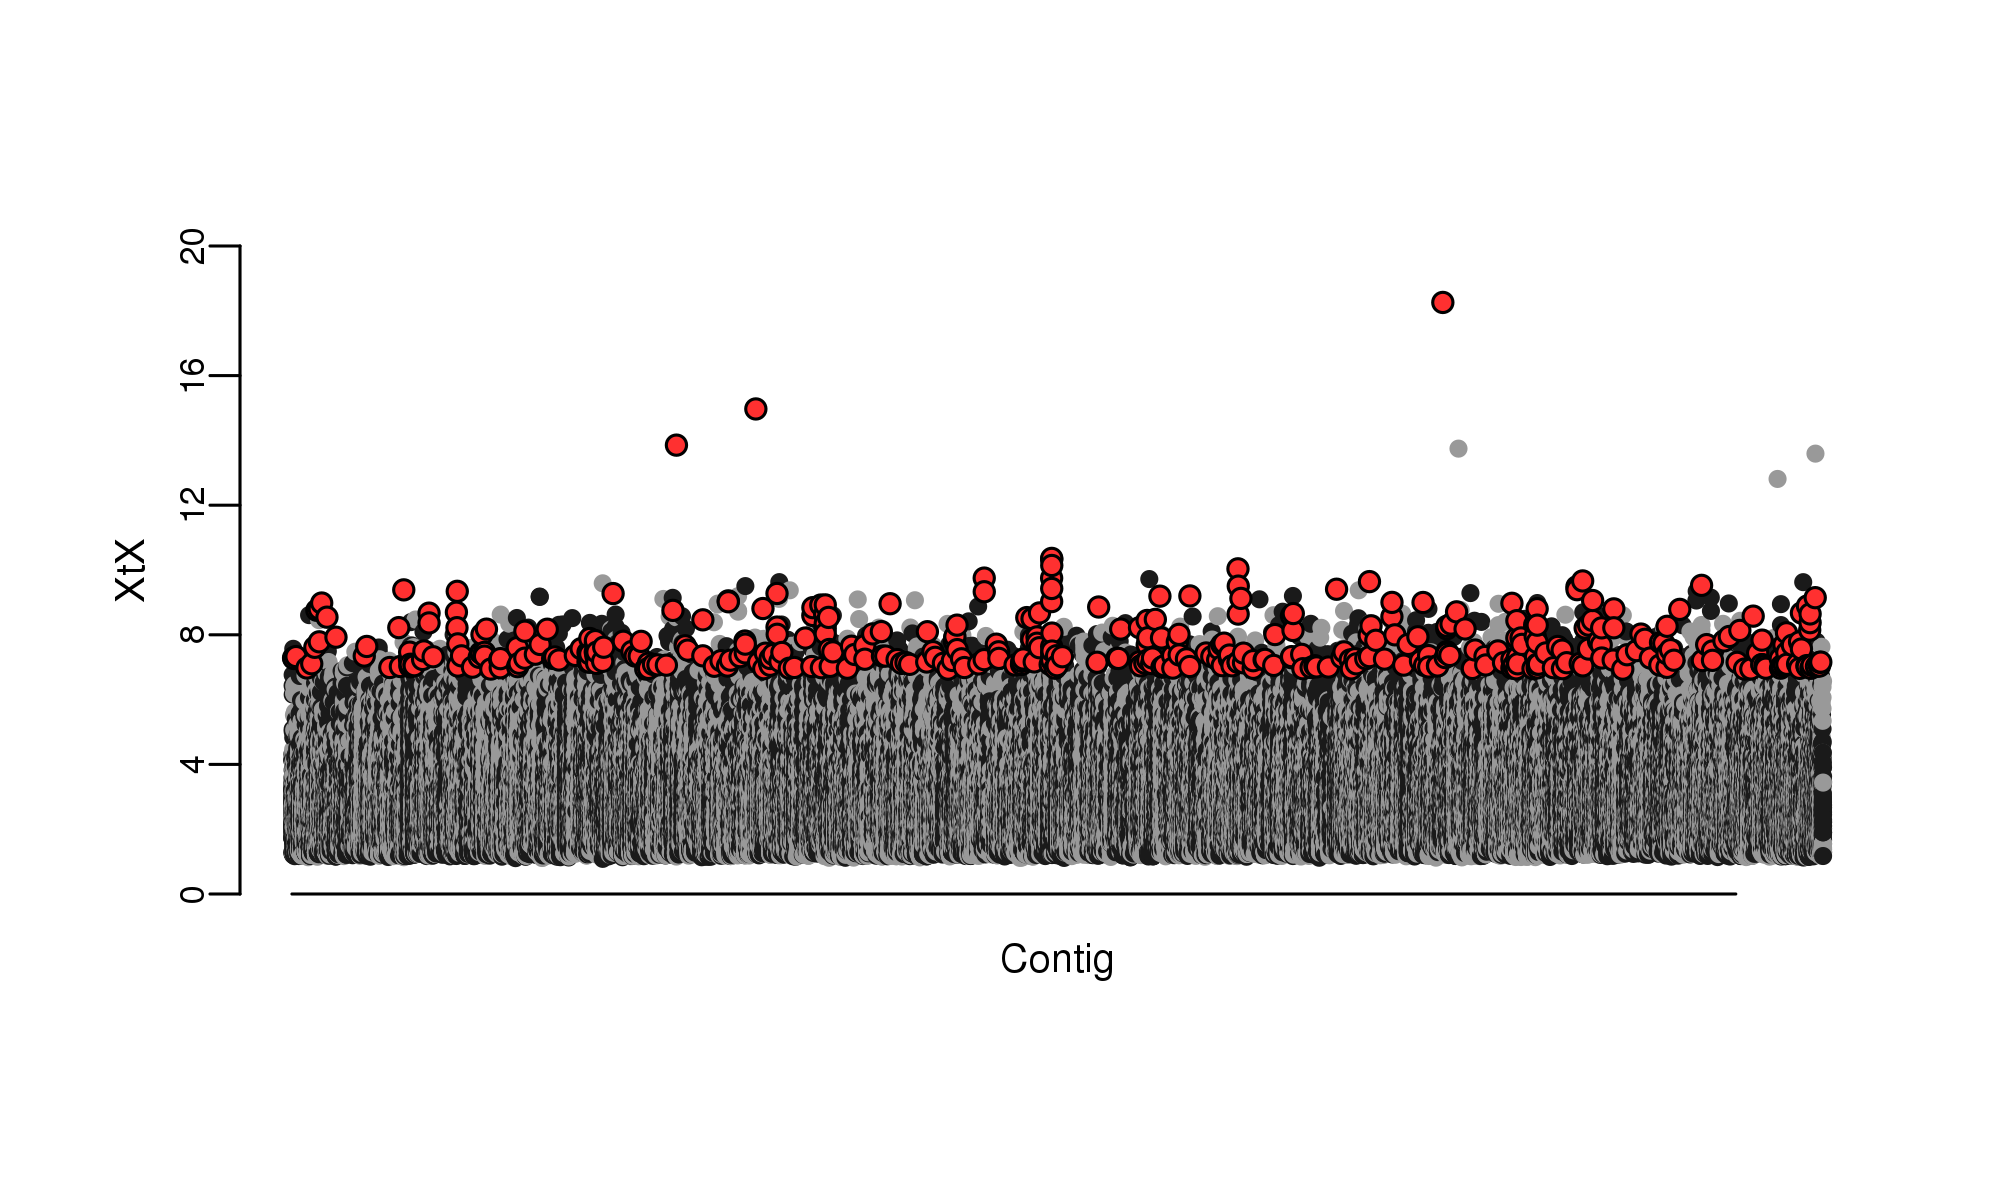
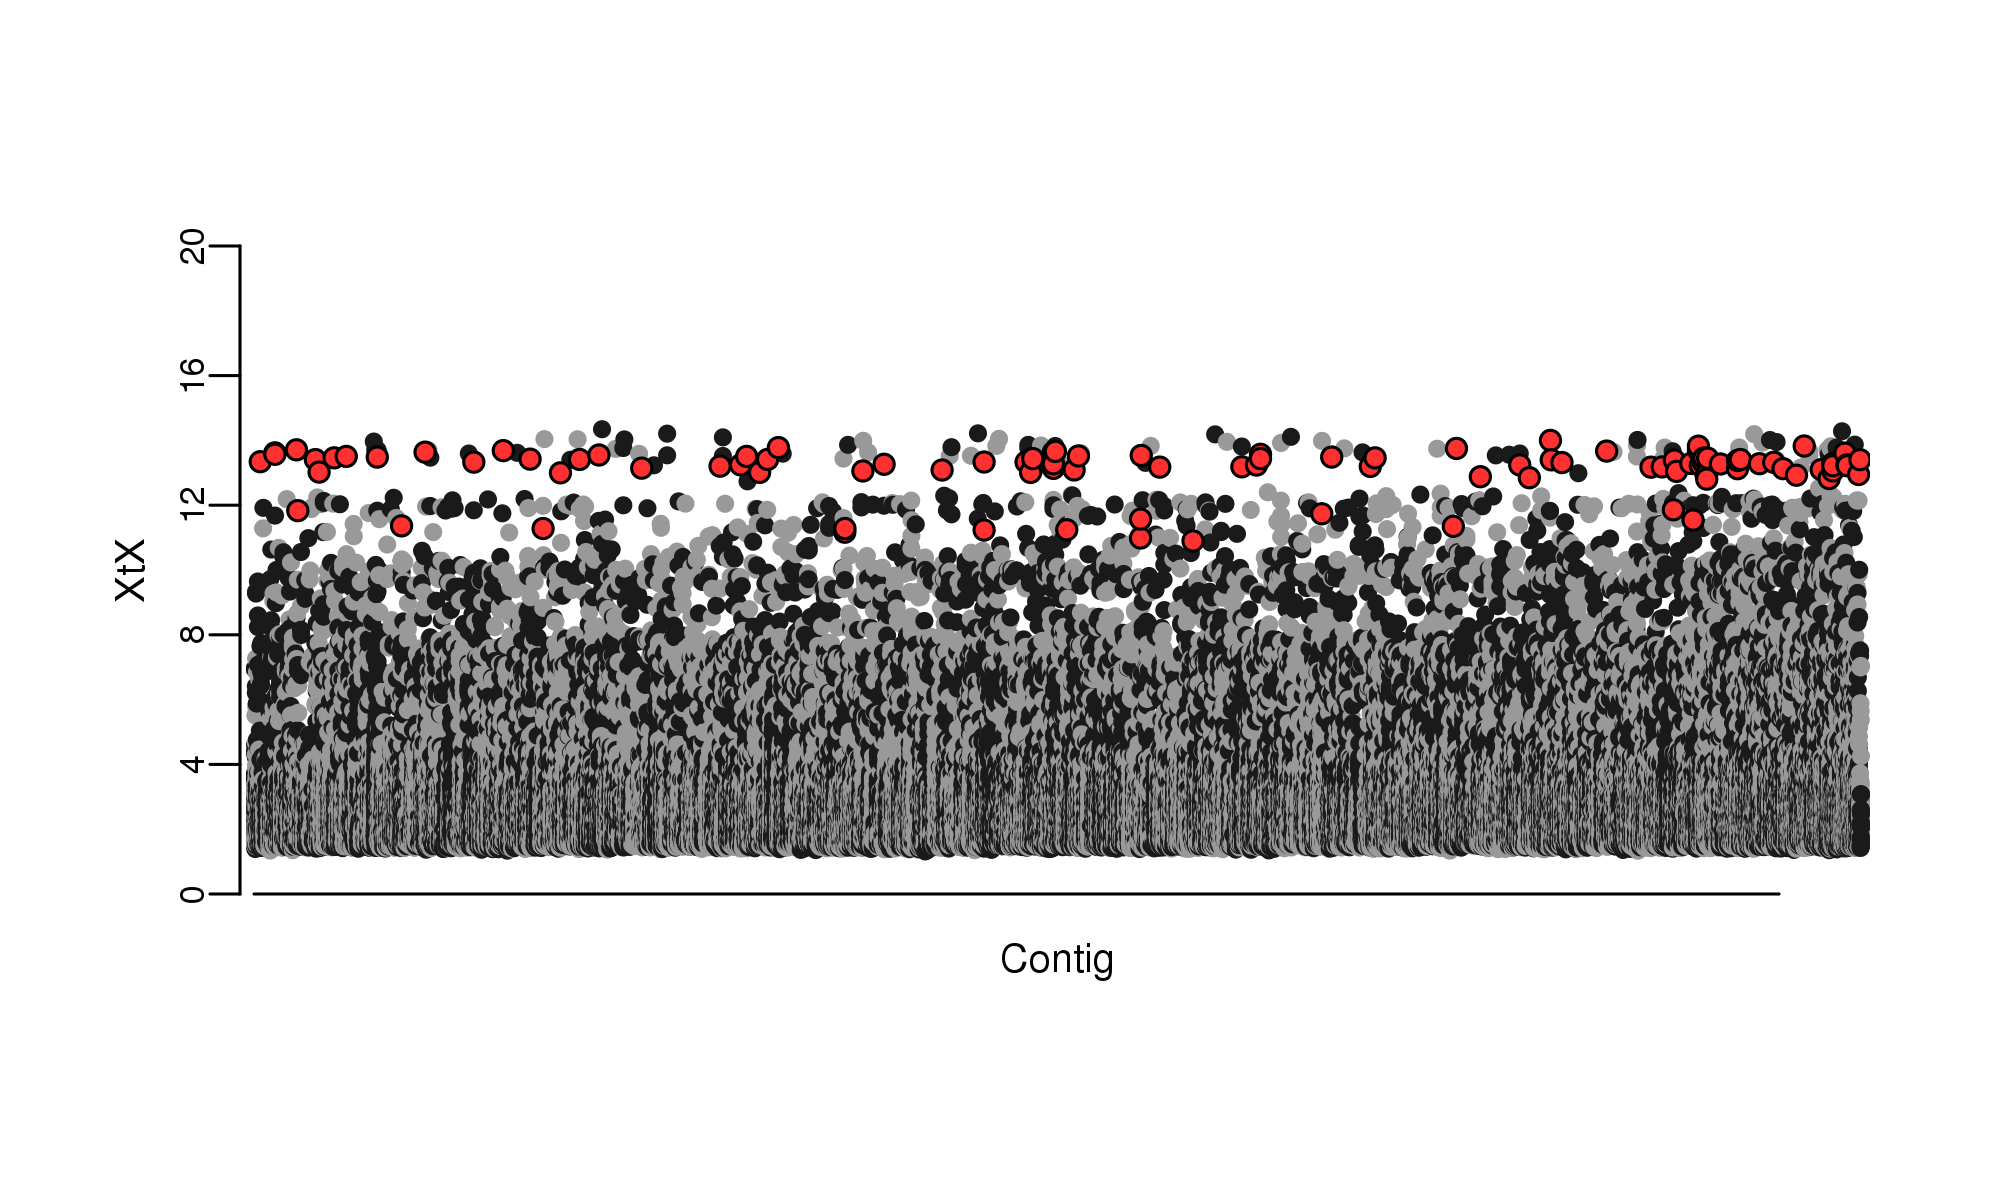
redoing filtering

Changed region(s): [[0.1243, 0.3392, 0.9634, 0.74], [0.7148, 0.2467, 0.7459, 0.2775]]

diff --git a/scripts/filt_variable.py b/scripts/filt_variable.py
@@ -10,7 +10,7 @@ l = [4,7,10,13,16,19]
 
 ix = 0
 good_snp = 0
-with open('/users/r/b/rbrennan/oyster/data/oyster.filter.mpileup', "r") as master_file, open('oyster.final.mpileup', 'w') as myfile:
+with open('/users/r/b/rbrennan/oyster/data/oyster.filter.mpileup', "r") as master_file, open('/users/r/b/rbrennan/oyster/data/oyster.final.mpileup', 'w') as myfile:
     for line in master_file:
         a_count = 0
         c_count = 0
@@ -24,13 +24,11 @@ with open('/users/r/b/rbrennan/oyster/data/oyster.filter.mpileup', "r") as maste
             t_count = t_count + len([b for b in tmp if b in t_base])
             g_count = g_count + len([b for b in tmp if b in g_base])
             # calc maf > 0.01
-            dep = dep + int(line.split("\t")[i-1])
         bi_allele = sum([a_count > 0, c_count > 0, t_count > 0, g_count > 0])
         # removing indels with the regular expression below
-        if (a_count > 1 or c_count > 1 or t_count > 1 or g_count > 1) and bool(re.search(r"[+-](\d+)", tmp)) is False and (float((a_count + c_count + t_count + g_count)/float(dep)) >= 0.01) and bi_allele == 1:
+        if (a_count > 1 or c_count > 1 or t_count > 1 or g_count > 1) and bool(re.search(r"[+-](\d+)", tmp)) is False and bi_allele == 1:
             myfile.write(line)
             good_snp = good_snp + 1
             if good_snp % 10000 == 0: print "number of good snps:", good_snp
         if ix % 50000 == 0: print "iteration", ix
         ix = ix + 1
-
